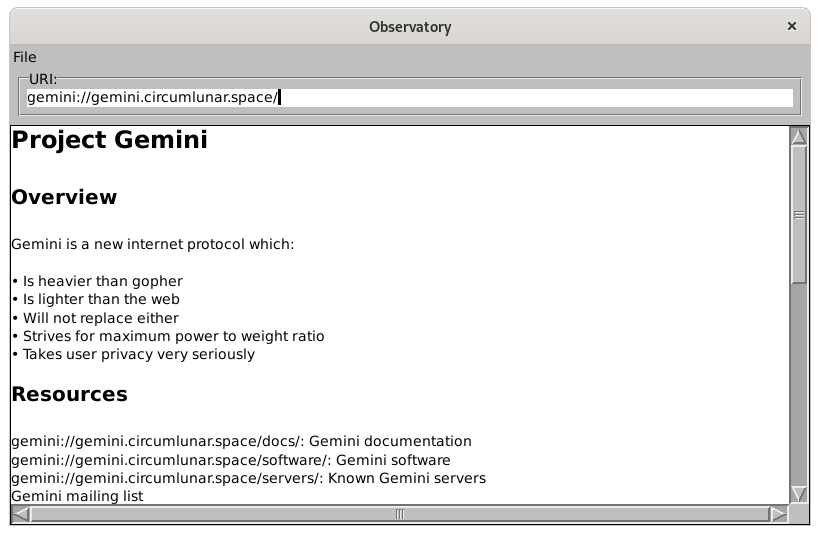
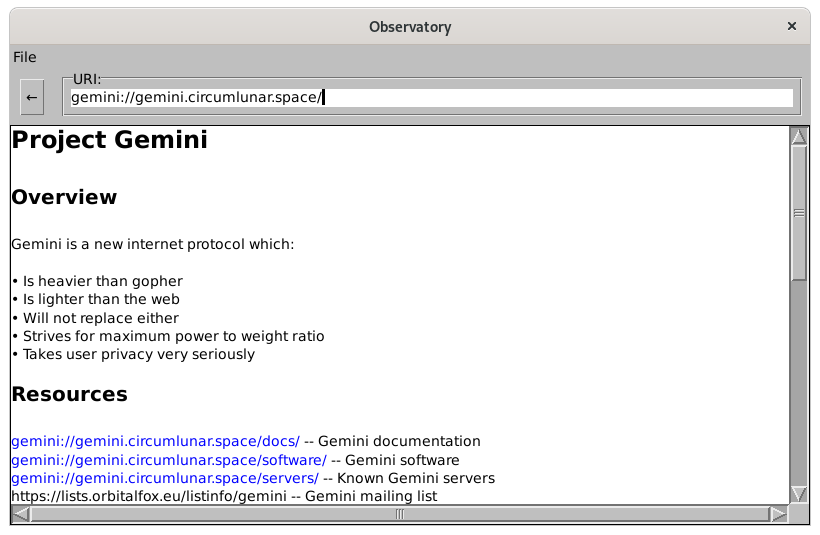
Update README and screenshot to reflect changes

diff --git a/README.md b/README.md
@@ -12,4 +12,16 @@ Once the system is loaded, you can run Observatory by evaluating `(observatory:o
 
 ## Known Issues
 
-Observatory should be able to load and display most pages in gemtext, but is still lacking important features like support of INPUT status codes.
+Observatory is currently in early development, so it has a limited feature set, and it is easy to find a way to crash it.  On the other hand, it is quite usable for casual browsing of Gemini space.  One significant limitation is that it errors out with binary (and possibly other non-utf-8) files; this can probably be fixed by updating the stream format based on mime type after the server's response header is parsed.
+
+## Wish List
+
+Observatory doesn't need to do everything, but a few additional features could make it suitable for more "serious" use.  This is my TODO list, if I ever get around to it:
+
+* Add the ability to display images (at least .png and .jpg)
+* Add the ability to save a copy of the current document to disk
+* Add the option to download non-text, non-gemtext files
+* Add bookmarks
+* Settings options for users
+* Get copy and paste working (yours truly is not a CLIM expert)
+* Allow user to load other protocols (e.g. HTTP or Gopher) by starting the appropriate program
